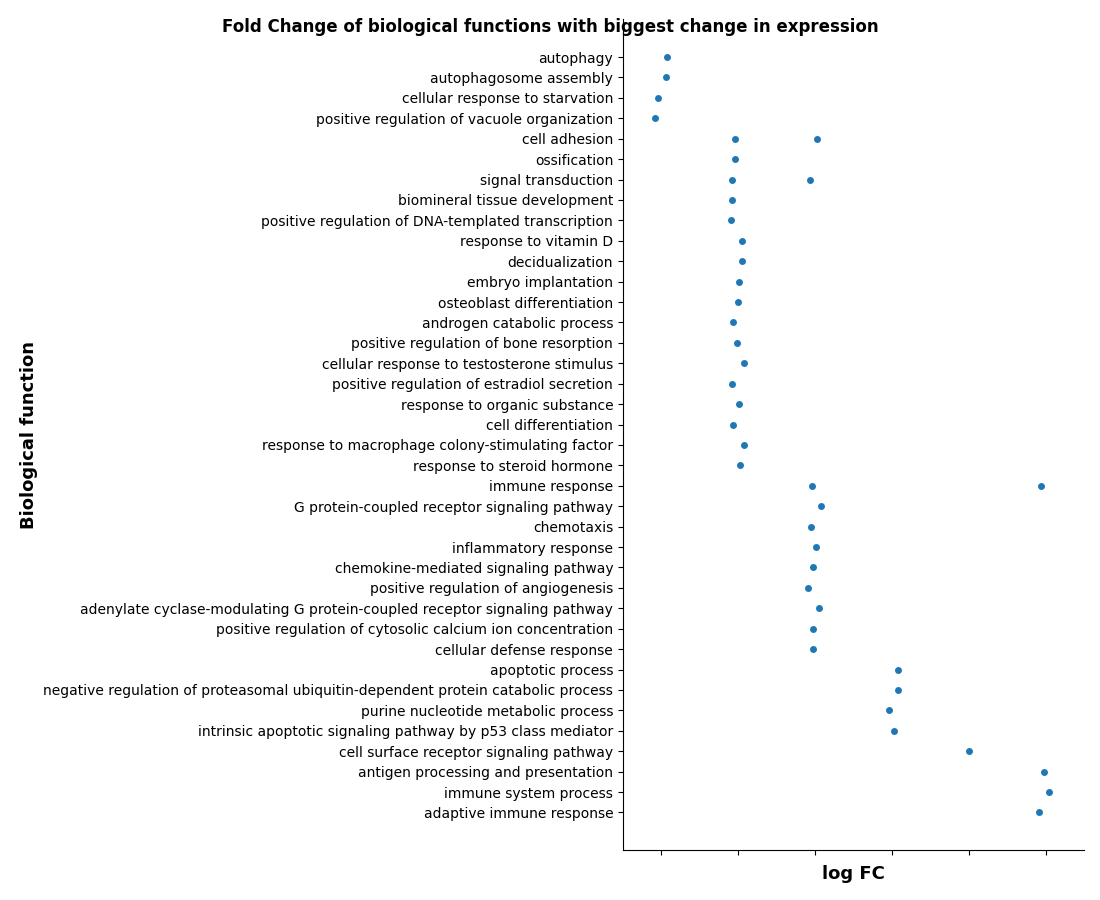
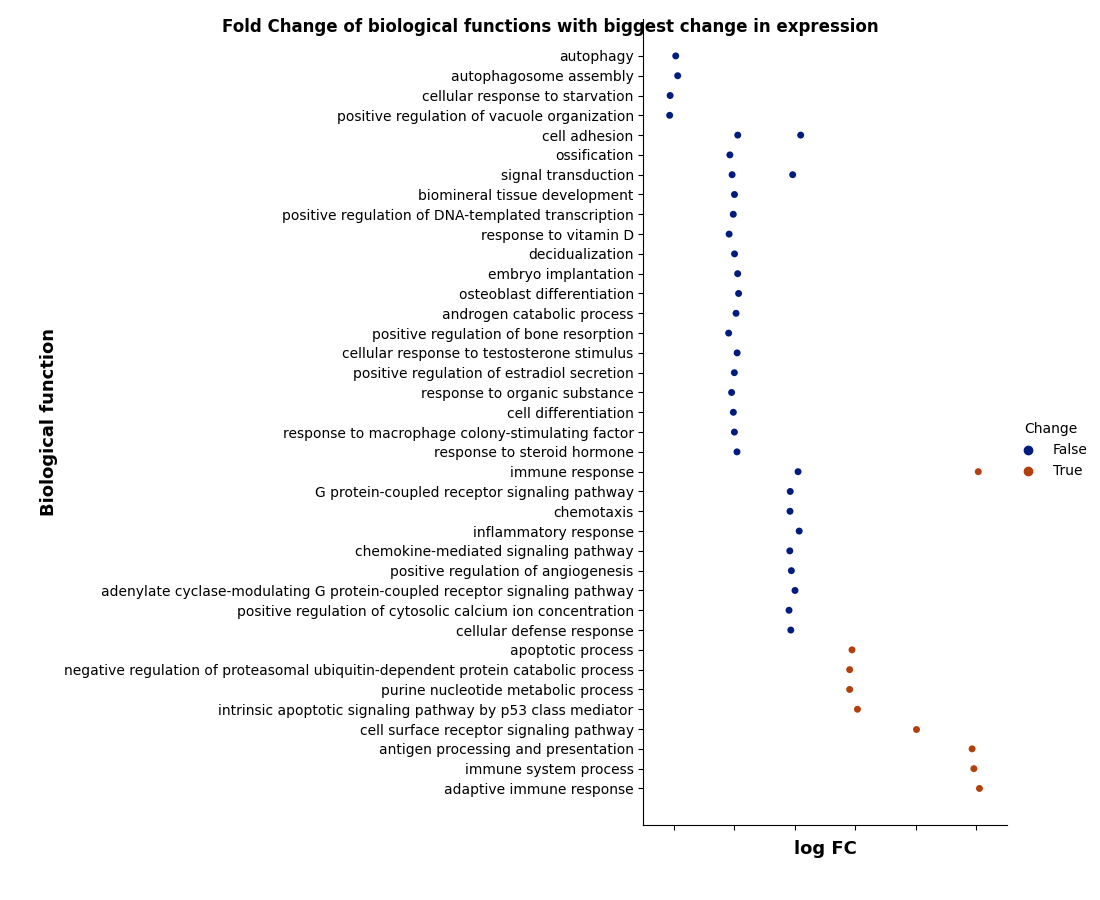
Managed to add legend to seaborn catplot

diff --git a/main.py b/main.py
@@ -258,7 +258,7 @@ print('\n\n')
 print('COMPARING RESULTS')
 genes_in_both = list(deseq_gene_ids.intersection(edgar_gene_ids))
 genes_in_both.sort()
-print(f'There are {len(genes_in_both)} that both methods agree on')
+print(f'There are {len(genes_in_both)} genes that both methods agree on')
 venn2([edgar_gene_ids, deseq_gene_ids], set_labels=('EdgaR', 'DESeq2'))
 plt.title('Genes found by two methods')
 plt.savefig('Graphs/Comparison/venn.png', format='png')
@@ -322,6 +322,7 @@ de_functions_writer.writerow(['Biological_function', 'values_of_FC'])
 catplot_data = sorted(catplot_data.items(), key=lambda tup: max(list(map(abs, tup[1]))), reverse=True)
 catplot_names = []
 catplot_values = []
+catplot_hue = []
 goal = 0
 for i, tup in enumerate(catplot_data):
 	function = tup[0]
@@ -329,6 +330,7 @@ for i, tup in enumerate(catplot_data):
 	if i <= 50 or max(list(map(abs, values))) == goal:
 		catplot_values.extend(values)
 		catplot_names.extend([function for i in range(len(values))])
+		catplot_hue.extend([True if value > 0 else False for value in values])
 	else:
 		break
 	if i == 50:
@@ -338,7 +340,8 @@ for i, tup in enumerate(catplot_data):
 	writer_row = [function, values]
 	de_functions_writer.writerow(writer_row)
 # plotting function expression change
-g = sns.catplot(x=catplot_values, y=catplot_names, height=7, aspect=1.5, orient='v')
+catplot_data = {'names': catplot_names, 'values': catplot_values, 'Change': catplot_hue}
+g = sns.catplot(catplot_data, x='values', y='names', hue='Change',  height=7, aspect=1.5, orient='v', palette='dark')
 g.set_axis_labels('log FC', 'Biological function', fontsize=13, fontweight='bold')
 g.figure.suptitle('Fold Change of biological functions with biggest change in expression\n\n', fontweight='bold')
 g.fig.set_figwidth(11)
